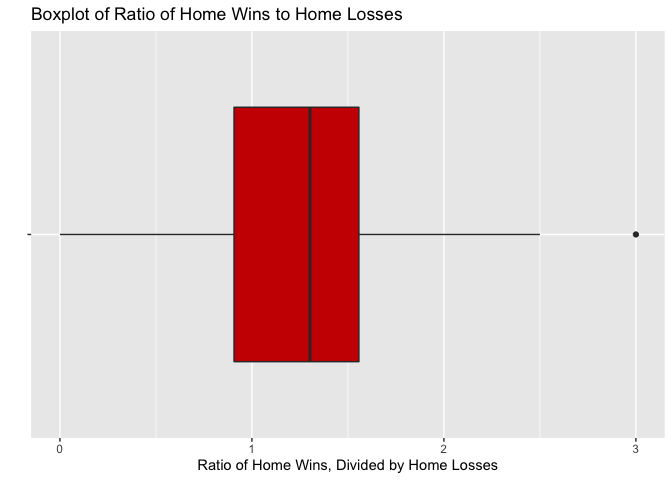
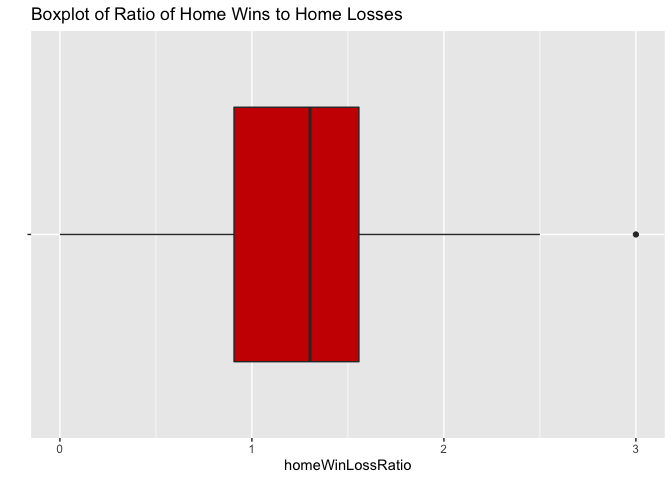
Adding Gaussian curve to histograms to access Normalcy; fixing additional grammatical errors.

Changed region(s): [[0.2812, 0.9375, 0.75, 1.0]]

diff --git a/README.md b/README.md
@@ -55,10 +55,6 @@ both convenient and easy to read.
 
 ## Packages Used for Reading JSON Data
 
-Discuss the possible packages/functions that are available for reading
-JSON data into R. (There are three major packages for JSON data.) Choose
-one and explain why you’ve chosen it.
-
 Three R packages can be utilized for working with JSON data:
 
   - `rjson`  
@@ -69,11 +65,11 @@ All three packages offer options for converting to/from JSON. `RJSONIO`
 was originally introduced as a [faster
 alternative](https://www.rdocumentation.org/packages/RJSONIO/versions/1.3-1.4)
 to `rjson`, given concerns about the latter’s slower speeds, though
-there are some indications that `rjson` may now actaully be faster in
-certain circumstances. I have selected `jsonlite` - which debuted in
-2014 and originally [started as a branch of
-`RJSONIO`](https://cran.r-project.org/web/packages/jsonlite/index.html#:~:text=In%20addition%20to%20converting%20JSON,data%20in%20systems%20and%20applications.)
-- as my package of choice. Documentation on the package is extensive, as
+there are some indications that `rjson` may now actually be faster in
+certain circumstances. I have selected `jsonlite`, which debuted in 2014
+and originally [started as a branch of
+`RJSONIO`](https://cran.r-project.org/web/packages/jsonlite/index.html#:~:text=In%20addition%20to%20converting%20JSON,data%20in%20systems%20and%20applications.),
+as my package of choice. Documentation on the package is extensive, as
 evidenced by the package’s thorough
 [vignette](https://cran.r-project.org/web/packages/jsonlite/jsonlite.pdf);
 and a wide variety of useful functions and options are within.
@@ -184,9 +180,9 @@ head(team_totals_data)
 ## Creating a Function for Accessing Season Records
 
 ``` r
-api_function_season <- function(franchiseID) {
+api_function_season <- function(ID) {
   base_url <- "https://records.nhl.com/site/api" 
-  full_url <- paste0(base_url, "/", "franchise-season-records?cayenneExp=franchiseId=", franchiseID) 
+  full_url <- paste0(base_url, "/", "franchise-season-records?cayenneExp=franchiseId=", ID) 
   season_get <- GET(full_url) 
   season_txt <- content(season_get, "text") 
   season_json <- fromJSON(season_txt, flatten=TRUE)
@@ -201,9 +197,9 @@ seasonCaps <- api_function_season(24) #Testing the function with Washington Capi
 ## Creating a Function for Accessing Goalie Records
 
 ``` r
-api_function_goalie <- function(franchiseID) {
+api_function_goalie <- function(ID) {
   base_url <- "https://records.nhl.com/site/api" 
-  full_url <- paste0(base_url, "/", "franchise-season-records?cayenneExp=franchiseId=", franchiseID) 
+  full_url <- paste0(base_url, "/", "franchise-season-records?cayenneExp=franchiseId=", ID) 
   goalie_get <- GET(full_url) 
   goalie_txt <- content(goalie_get, "text") 
   goalie_json <- fromJSON(goalie_txt, flatten=TRUE)
@@ -218,9 +214,9 @@ goalieCanes<- api_function_goalie(26) #Testing the function with Carolina Hurric
 ## Creating a Function for Accessing Skater Records
 
 ``` r
-api_function_skater <- function(franchiseID) {
+api_function_skater <- function(ID) {
   base_url <- "https://records.nhl.com/site/api" 
-  full_url <- paste0(base_url, "/", "franchise-season-records?cayenneExp=franchiseId=", franchiseID) 
+  full_url <- paste0(base_url, "/", "franchise-season-records?cayenneExp=franchiseId=", ID) 
   skater_get <- GET(full_url) 
   skater_txt <- content(skater_get, "text") 
   skater_json <- fromJSON(skater_txt, flatten=TRUE)
@@ -228,7 +224,7 @@ api_function_skater <- function(franchiseID) {
   colnames(skater_df) <- str_remove(colnames(skater_df), "data.")
   return(skater_df)
 }
-skaterPenguins <- api_function_skater(17) #Testing the function - sure, I suppose I'll look at some Penguins data too! 
+skaterPenguins <- api_function_skater(17) #Testing the function - I'll look at some Penguins data too! 
 #view(skaterPenguins)
 ```
 
@@ -238,16 +234,16 @@ skaterPenguins <- api_function_skater(17) #Testing the function - sure, I suppos
 
 In a [shutout game](https://en.wikipedia.org/wiki/Shutout), a hockey
 team’s defense manages to prevent the other team from scoring any points
-throughout the entirety of the game - surely, a sign of strong
-performance\! To begin, I decided to created a categorical variable
-called **shutoutRange**, creating ranges for total number of shutouts
-and using `ifelse` to assign each value to the appropriate level of the
-new variable. I then created a contingency table to get a quick glimpse
-of how many active (and inactive) franchises fell within each category.
-Not too surprisingly, none of the teams that had a history of over a 100
-shutouts were inactive. To visualize this data, I created a barplot,
-filling the bars with color based upon whether or not the franchise is
-active.
+throughout the entirety of the game - surely, a sign of the franchise’s
+strong performance\! To begin, I decided to created a categorical
+variable called **shutoutRange**, usuing the `mutate` function to create
+ranges for total number of shutouts and `ifelse` to assign each value to
+the appropriate level of the new variable. I then created a contingency
+table to get a quick glimpse of how many active (and inactive)
+franchises fell within each category. Not too surprisingly, none of the
+teams that had a history of over a 100 shutouts were inactive. To
+visualize this data, I created a barplot, filling the bars with color
+based upon whether or not the franchise is active.
 
 ``` r
 team_totals_data <- mutate(team_totals_data, shutoutRange = 
@@ -283,12 +279,12 @@ shutoutGraph + geom_bar(aes(fill=as.factor(activeFranchise))) +
 ## Are Teams more Likely to Win at Home than Away?
 
 We’ve heard of home-“field” advantage - let’s see if the same can be
-said of the rink.I began by creating another two variables:
+said of the rink. I began by creating another two variables:
 
   - **roadWinLossRatio**, AKA total number of wins on the road divided
-    by total number of losses on the road  
-  - **homeWinLossRaio**, AKA total number of losses at home divided by
-    total number of wins on the road
+    by total number of losses on the road.  
+  - **homeWinLossRatio**, AKA total number of losses at home divided by
+    total number of wins on the road.
 
 *For this purposes of this variable, I did not include ties.*
 
@@ -297,18 +293,25 @@ team_totals_data <- mutate(team_totals_data, roadWinLossRatio = roadWins / roadL
 team_totals_data <- mutate(team_totals_data, homeWinLossRatio = homeWins / homeLosses)
 
 team_totals_data %>%
-  select(teamName, roadWinLossRatio, homeWinLossRatio) %>%
+  select(teamName, roadWins, roadLosses, roadWinLossRatio, homeWins, homeLosses, homeWinLossRatio) %>%
   arrange(teamName) %>%
   head()
 ```
 
-    ##            teamName roadWinLossRatio homeWinLossRatio
-    ## 1     Anaheim Ducks        0.9743590        1.5000000
-    ## 2     Anaheim Ducks        0.9114471        1.6158358
-    ## 3   Arizona Coyotes        0.6718750        0.9629630
-    ## 4    Atlanta Flames        0.6858974        1.5480769
-    ## 5    Atlanta Flames        0.0000000        0.3333333
-    ## 6 Atlanta Thrashers        0.6824034        0.8970588
+    ##            teamName roadWins roadLosses roadWinLossRatio homeWins homeLosses
+    ## 1     Anaheim Ducks       38         39        0.9743590       51         34
+    ## 2     Anaheim Ducks      422        463        0.9114471      551        341
+    ## 3   Arizona Coyotes       86        128        0.6718750      104        108
+    ## 4    Atlanta Flames      107        156        0.6858974      161        104
+    ## 5    Atlanta Flames        0          9        0.0000000        2          6
+    ## 6 Atlanta Thrashers      159        233        0.6824034      183        204
+    ##   homeWinLossRatio
+    ## 1        1.5000000
+    ## 2        1.6158358
+    ## 3        0.9629630
+    ## 4        1.5480769
+    ## 5        0.3333333
+    ## 6        0.8970588
 
 ``` r
 roadWLR <- summary(team_totals_data$roadWinLossRatio)
@@ -326,19 +329,25 @@ homeWLR
     ##    Min. 1st Qu.  Median    Mean 3rd Qu.    Max.    NA's 
     ##  0.0000  0.9069  1.3024  1.2541  1.5573  3.0000       1
 
-Looking at the mean and median win-to-loss ratios for on the road (or
-“away”) and home, we see that both the home mean and median ratios are
-nearly double for home games - perhaps indicating that a team is more
-likely to win when it’s playing on its own ice. We can then look at
-boxplots of these ratios, as a visual representation of these summary
-statistics.
+Looking at the mean and median Win-Loss ratios for on the road (or
+“away”) and home games, we see that both the home mean and median
+ratios are nearly double that of away games - perhaps indicating that a
+team is more likely to win when it’s playing on its own ice. We can then
+look at boxplots of these ratios, as a visual representation of these
+summary statistics. The distributions appear slightly skewed, with the
+Road Win-Loss ratio being slightly skewed left, and the Home Win-Loss
+Ratio appearing skewed right, likely due to its outlier. Looking at the
+data, we can identify this outlier as the Toronto Arenas franchise (with
+a game type ID of 2); however, we also note that they only played a
+total of 20 games at home, winning 15 - giving them their extraordinary
+Win-Loss Ratio of 3.0.
 
 ``` r
 penalty_plot <- ggplot(team_totals_data, aes(x=roadWinLossRatio,y=""))
 penalty_plot + 
   geom_boxplot(fill="#cc0000") +
   ggtitle("Boxplot of Ratio of Road Wins to Road Losses") +
-  labs(x="Ratio of Road Wins, Divided by Road Losses", y="")
+  labs(y="")
 ```
 
 ![](README_files/figure-gfm/Creating%20Boxplot%20of%20roadWinToLossRatio-1.png)<!-- -->
@@ -348,41 +357,56 @@ penalty_plot <- ggplot(team_totals_data, aes(x=homeWinLossRatio,y=""))
 penalty_plot + 
   geom_boxplot(fill="#cc0000") +
   ggtitle("Boxplot of Ratio of Home Wins to Home Losses") +
-  labs(x="Ratio of Home Wins, Divided by Home Losses", y="")
+  labs(y="")
 ```
 
 ![](README_files/figure-gfm/Creating%20Boxplot%20of%20home%20WinLossRatio-1.png)<!-- -->
 
 ``` r
+#team_totals_data %>% select(teamName, homeWinLossRatio) %>% view()
+#We can see that the outlier, with a homeWinLossRatio of 3 is the Toronto Arenas. 
+```
+
+``` r
 roadWinsLossesHist <- ggplot(team_totals_data, aes(x=roadWinLossRatio))
 roadWinsLossesHist +
   geom_histogram(aes(y=..density..), binwidth=0.25) + 
-  ggtitle("Histogram of Road Wins : Losses Ratio")
+  geom_density(kernal="gaussian")
 ```
 
-![](README_files/figure-gfm/Creating%20Histogram%20of%20Road%20Wins%20to%20Losses%20Ratio-1.png)<!-- -->
+    ## Warning: Ignoring unknown parameters: kernal
+
+![](README_files/figure-gfm/Creating%20Histogram%20of%20Road%20Wins%20to%20Road%20Losses%20Ratio-1.png)<!-- -->
+
+``` r
+  ggtitle("Histogram of Road Wins to Road Losses Ratio")
+```
+
+    ## $title
+    ## [1] "Histogram of Road Wins to Road Losses Ratio"
+    ## 
+    ## attr(,"class")
+    ## [1] "labels"
 
 ``` r
 homeWinsLossesHist <- ggplot(team_totals_data, aes(x=homeWinLossRatio))
 homeWinsLossesHist +
   geom_histogram(aes(y=..density..), binwidth=0.25) + 
-  ggtitle("Histogram of Home Wins : Losses Ratio")
+  geom_density(kernal="gaussian") + 
+  ggtitle("Histogram of Home Wins to Home Losses Ratio")
 ```
 
-![](README_files/figure-gfm/Creating%20Histogram%20of%20Home%20Wins%20to%20Losses%20Ratio-1.png)<!-- -->
+![](README_files/figure-gfm/Creating%20Histogram%20of%20Home%20Wins%20to%20Home%20Losses%20Ratio-1.png)<!-- -->
 
 ## Do Aggressive Teams Tend to Win More?
 
 Do teams that spend more time in the penalty box tend to win more? To
-help explore this question, I created two new variables from the
-Franchise Team Totals dataset (that is, R object team\_totals\_data).
-
-Here, I used the `mutate` function from the `dplyr` package to create a
-new variable called **penaltyGamesRatio** - the total number of minutes
-spent in the penalty box, divided by the total number of games played.
-This variable is intended to display the average amount of time per game
-a team’s players spend in penalty - perhaps a larger number is
-indicative of a more “aggressive” playing style.
+help explore this question, I created another new variable called
+**penaltyGamesRatio** - the total number of minutes spent in the penalty
+box, divided by the total number of games played. This variable is
+intended to display the average amount of time per game a team’s players
+spend in penalty - perhaps a larger number is indicative of a more
+“aggressive”, edgy playing style.
 
 ``` r
 team_totals_data <- mutate(team_totals_data, penaltyGamesRatio = penaltyMinutes / gamesPlayed)
@@ -401,7 +425,7 @@ team_totals_data %>%
     ## 5       Toronto Arenas          25.14286
     ## 6 Winnipeg Jets (1979)          24.93548
 
-I then calculated an **overall** “win-to-loss” ratio, by dividing total
+I then calculated an **overall** Win-Loss ratio, by dividing total
 number of wins by total number of losses. My hope here was to create a
 standardized measure, controlling for the amount of time that a team had
 been in operation, so that new teams and old teams could be compared
@@ -425,12 +449,12 @@ team_totals_data %>%
     ## 5 Vegas Golden Knights     1.454545
     ## 6  Philadelphia Flyers     1.437369
 
-I then created another variable: **MoreWinsOrLosses**, using `ifelse`.
-If a team won more than it lost (that is, its winLossRatio \> 1), then
-the value of MoreWinsOrLosses was designated as “More Wins”. Otherwise,
-it was assigned a value of “More Losses”. *(For the purposes of this
-project, I designated the scenario of an equal number of wins and losses
-as “More Losses”.)*
+I then created a categorical variable called **MoreWinsOrLosses**, using
+`ifelse`. If a team won more than it lost (that is, its winLossRatio \>
+1), then the value of MoreWinsOrLosses was designated as “More Wins”.
+Otherwise, it was assigned a value of “More Losses”. *(For the purposes
+of this project, I designated the scenario of an equal number of wins
+and losses as “More Losses”.)*
 
 ``` r
 team_totals_data <- mutate(team_totals_data, moreWinsOrLosses = ifelse(winLossRatio > 1, "More Wins", "More Losses"))
@@ -452,20 +476,24 @@ team_totals_data %>%
     ## 9       Boston Bruins    0.9907407      More Losses
     ## 10 Brooklyn Americans    0.5517241      More Losses
 
+I also created two contingency tables using the new variable. Winning
+teams appear to be both more likely to still be an active franchise, as
+well as more likely to achieve shutout games.
+
 ``` r
-shutoutTable <- table(team_totals_data$activeFranchise, team_totals_data$shutoutRange)
-kable(shutoutTable, caption="Table of Active or Non-Active Franchise vs. Total Number of Shutouts")
+shutoutTable <- table(team_totals_data$moreWinsOrLosses, team_totals_data$activeFranchise)
+kable(shutoutTable, caption="Table of More Wins or Losses vs. Active or Non-Active Franchise")
 ```
 
-|   | 0-50 | 51-100 | 101-150 | 151+ |
-| - | ---: | -----: | ------: | ---: |
-| 0 |   15 |      3 |       0 |    0 |
-| 1 |   54 |      4 |      12 |   16 |
+|             |  0 |  1 |
+| ----------- | -: | -: |
+| More Losses | 15 | 44 |
+| More Wins   |  3 | 42 |
 
-Table of Active or Non-Active Franchise vs. Total Number of Shutouts
+Table of More Wins or Losses vs. Active or Non-Active Franchise
 
 ``` r
-kable(table(team_totals_data$moreWinsOrLosses, team_totals_data$shutoutRange), caption="Contingency Table of More Wins or Losses and Shutout Range")
+kable(table(team_totals_data$moreWinsOrLosses, team_totals_data$shutoutRange), caption="Contingency Table of More Wins or Losses vs. Shutout Range")
 ```
 
 |             | 0-50 | 51-100 | 101-150 | 151+ |
@@ -473,12 +501,12 @@ kable(table(team_totals_data$moreWinsOrLosses, team_totals_data$shutoutRange), c
 | More Losses |   53 |      2 |       2 |    2 |
 | More Wins   |   16 |      5 |      10 |   14 |
 
-Contingency Table of More Wins or Losses and Shutout Range
+Contingency Table of More Wins or Losses vs. Shutout Range
 
 Looking at the resulting boxplot *(below)*, we can see that the median
 amount of time spent in the penalty box by a “winning” team is greater
 than that of a “losing” team. Yet interestingly, the winning team range
-is much, much shorter than that of a losing team, and two losing teams
+is much, much narrower than that of a losing team, and two losing teams
 prove to be outliers, with one team spending an average of *over 30
 minutes a game* in the penalty box.
 
@@ -492,12 +520,12 @@ penalty_plot +
 
 ![](README_files/figure-gfm/Creating%20Boxplot%20of%20Average%20Time%20Spent%20in%20Penalty%20Box-1.png)<!-- -->
 
-Looking at the scatterplot, does not appear to be a straight-line
+Looking at the scatterplot, there does not appear to be a straight-line
 relationship between the amount of time that a team spends in the
 penalty box and its Win-Loss ratio. Looking at the distribution of the
 points, it seems that there may be a “sweet spot” - perhaps indicating
 that making certain illegal or more aggressive plays that could be
-risky, but be rewarding.
+risky, but rewarding.
 
 ``` r
 ratiosScatter <- ggplot(team_totals_data, aes(x=penaltyGamesRatio, y=winLossRatio))
@@ -552,25 +580,33 @@ a cumulative measure, indicating the total number of Goals Against for
 the team since its inception. We can average this as a “per game” value
 by dividing the goalsAgainst by the total number of games played. After
 creating that new variable, I then plotted this value against the total
-Win-Loss ratio. Of course, there appears to be a negative correlation
-between the two values: the larger the number of goals that a team’s
-goalies have let in, the lower their win-loss ratio. I colored the
-values on the scatterplot by whether or not a team is still an active
-franchise - indeed, the greater the number of goals are let in, the
-lower the number of wins… and seemingly, the less likely they are to
-still be an active franchise. The active franchises appear to have a
-much lower Goals Against Ratio, and a much higher Win-Loss ratio.
+Win-Loss ratio. Of course, there appears to be a weak negative
+correlation between the two values, with r= -0.421: the larger the
+number of goals that a team’s goalies have let in, the lower their
+win-loss ratio. I set the colors of the values on the scatterplot by
+whether or not a team is still an active franchise - indeed, the greater
+the number of goals are let in, the lower the number of wins… and
+seemingly, the less likely they are to still be an active franchise. The
+active franchises appear to have a much lower Goals Against Ratio, and a
+much higher Win-Loss ratio.
 
 ``` r
 team_totals_data$activeFranchise <- as.logical(team_totals_data$activeFranchise)
 team_totals_data <- mutate(team_totals_data, goalsAgainstRatio = goalsAgainst / gamesPlayed)
+correlation <- cor(team_totals_data$goalsAgainstRatio, team_totals_data$winLossRatio)
+correlation
+```
 
+    ## [1] -0.4209071
+
+``` r
 goalsAgainstLossesPlot <- ggplot(team_totals_data, aes(x=goalsAgainstRatio, y=winLossRatio, color=activeFranchise))
 goalsAgainstLossesPlot + 
   geom_point() + 
   geom_smooth(method=lm) +
   ggtitle("Scatterplot of Goals Against vs. Win-Loss Ratio") +
-  labs(x="Goals Against Ratio", y="Win-Loss Ratio")
+  labs(x="Goals Against Ratio", y="Win-Loss Ratio") +
+  scale_color_discrete(name="Active?", labels=c("No","Yes"))
 ```
 
 ![](README_files/figure-gfm/Creating%20Scatterplot%20of%20Goals%20Against%20vs.%20Losses-1.png)<!-- -->
